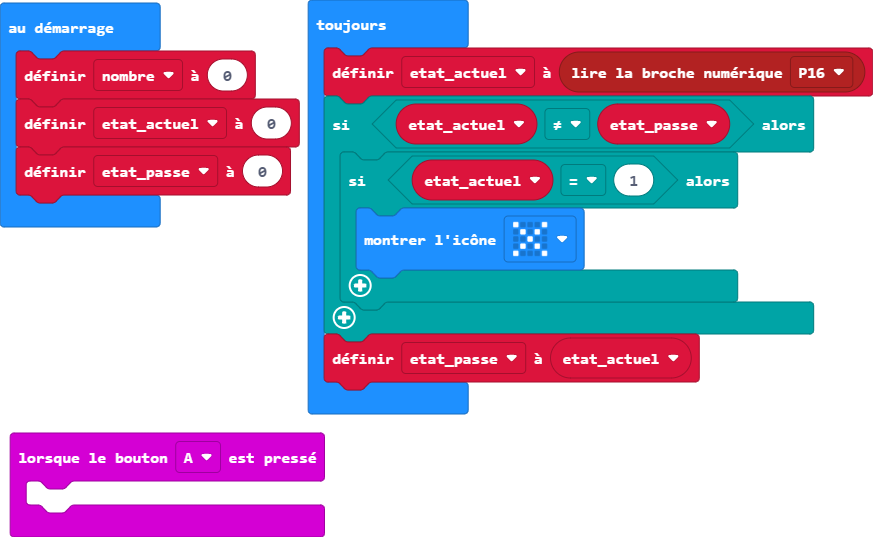
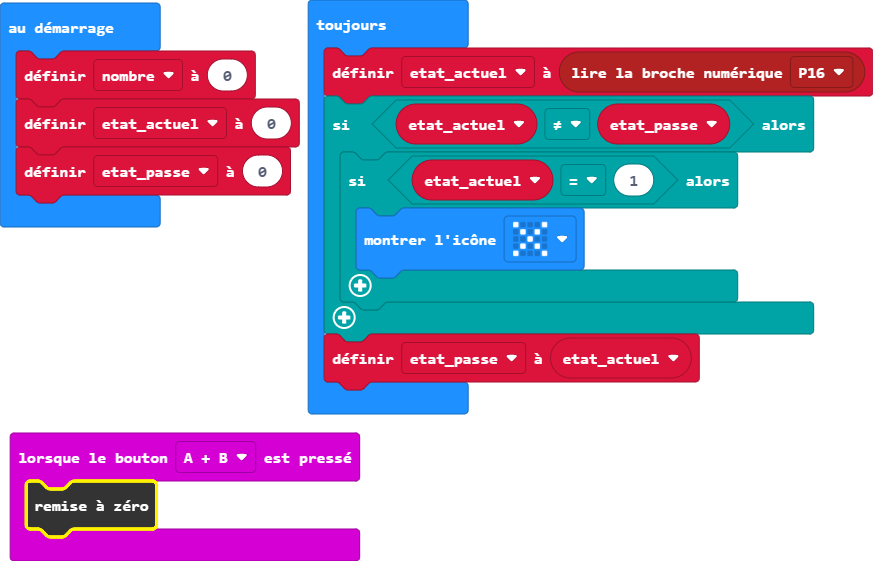
Mise à jour main.blocks, main.ts

Changed region(s): [[0.0, 0.0298, 1.0, 1.0], [0.0, 0.0894, 0.3402, 0.4469], [0.0, 0.0298, 0.1237, 0.0596]]

diff --git a/main.ts b/main.ts
@@ -1,5 +1,5 @@
-input.onButtonPressed(Button.A, function () {
-	
+input.onButtonPressed(Button.AB, function () {
+    control.reset()
 })
 let nombre = 0
 let etat_actuel = 0
